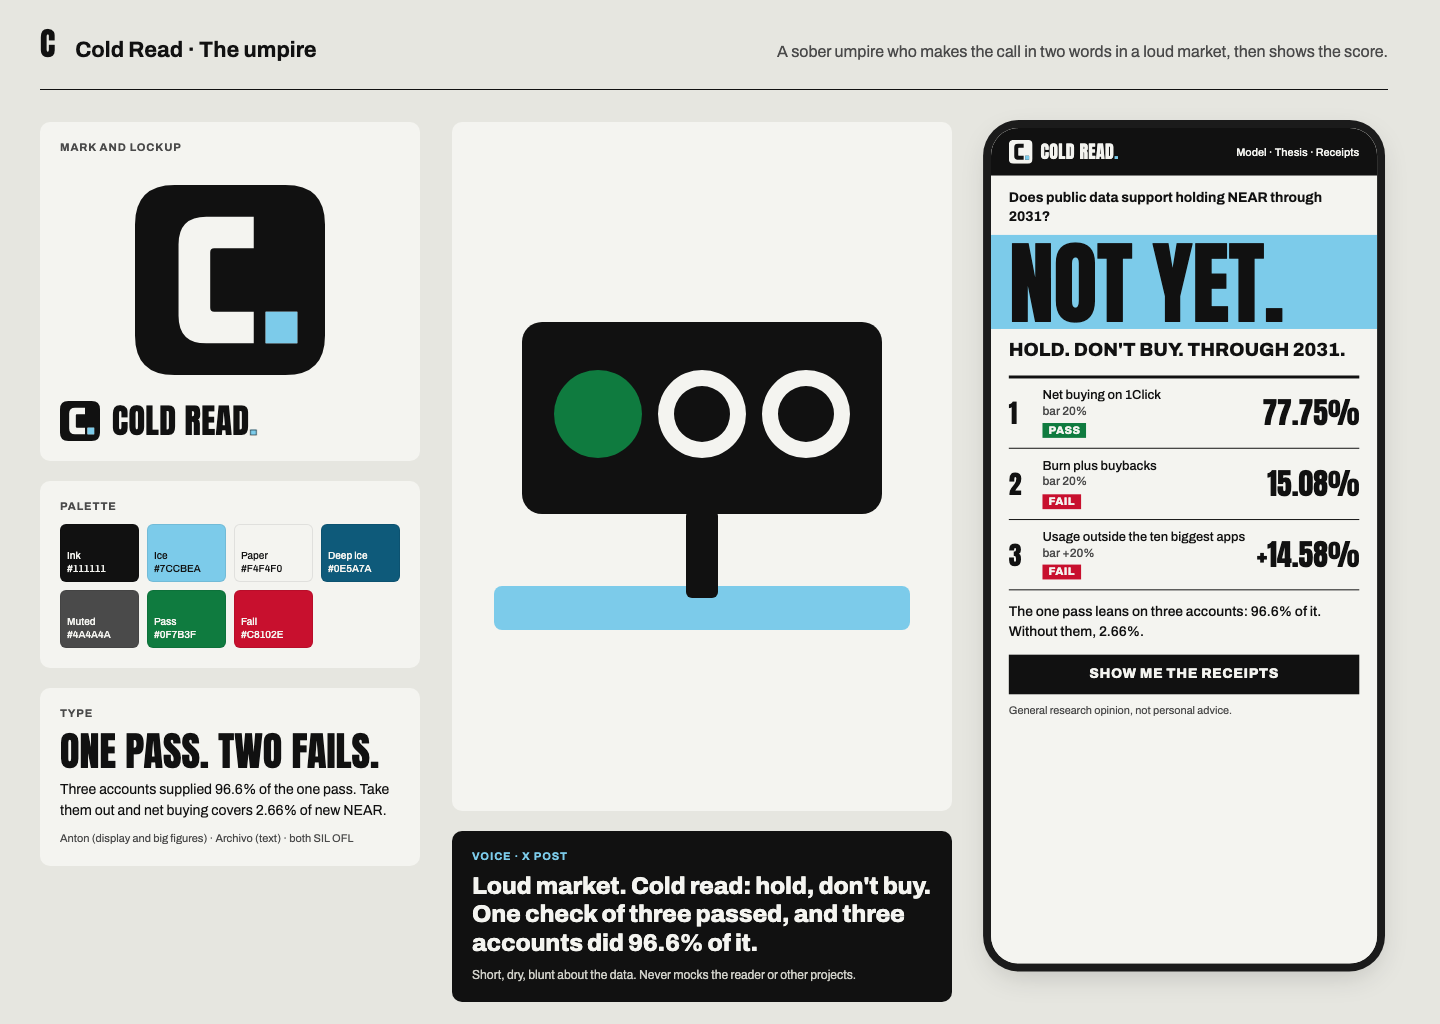
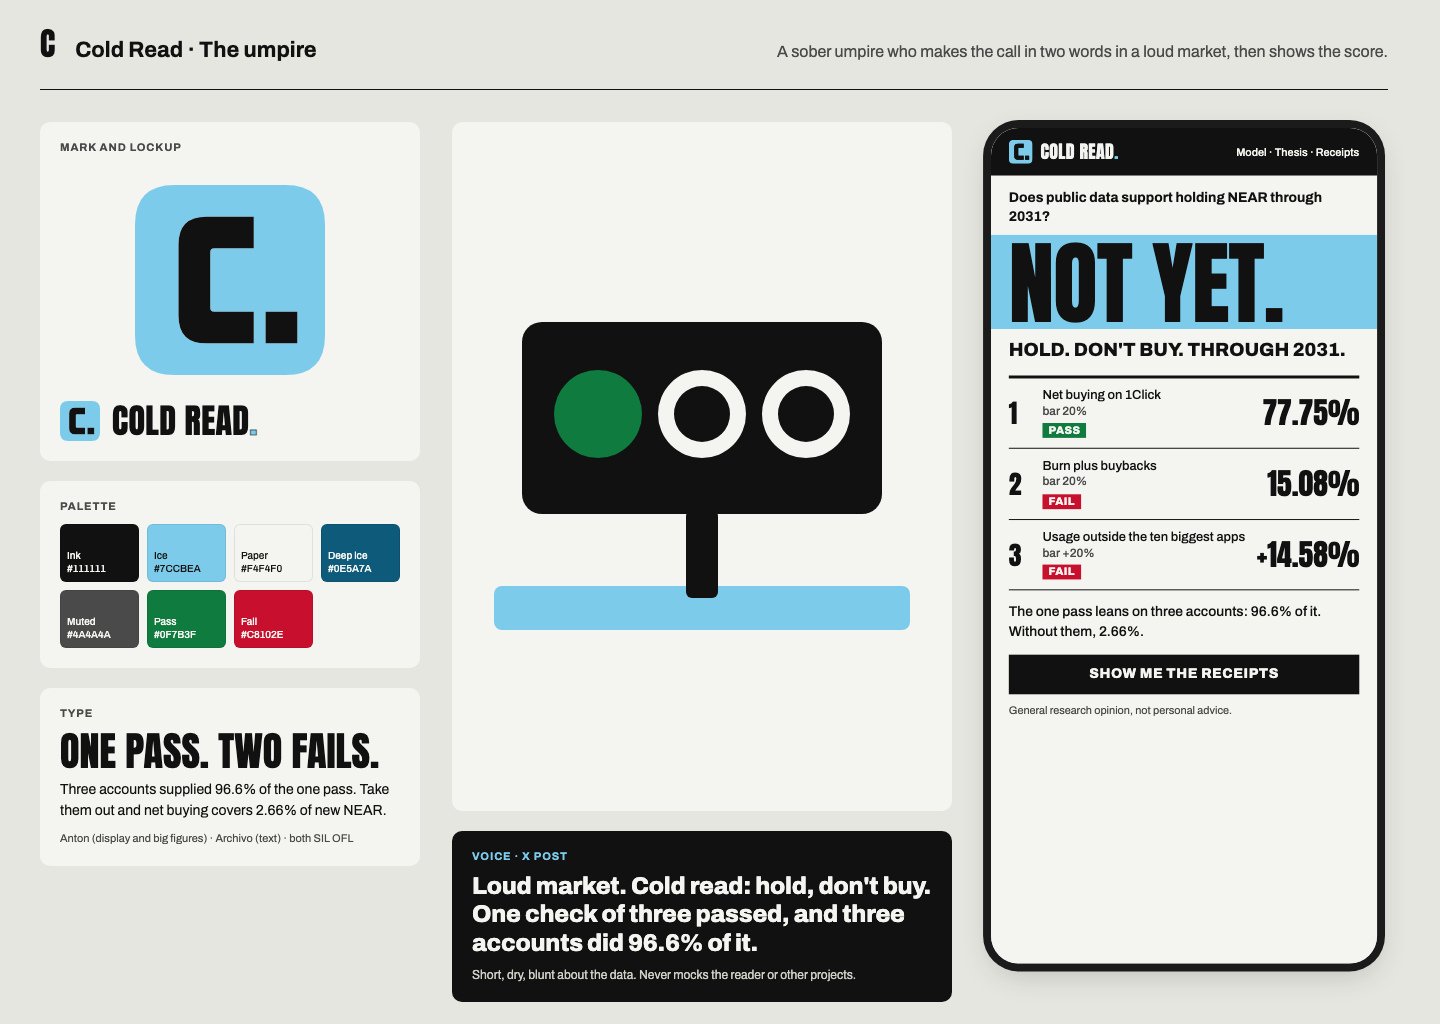
Apply the art director's fixes to the three brand directions
Mark A no longer reads as a circled T, mark C moves off black and white,
board B leads with the answer, and A's timing claim matches THESIS.md.

Changed region(s): [[0.0938, 0.1562, 0.25, 0.375], [0.0312, 0.375, 0.0938, 0.4375], [0.6875, 0.125, 0.7188, 0.1562]]

diff --git a/brand/directions/a-board.html b/brand/directions/a-board.html
@@ -53,7 +53,7 @@
     <div class="sw" style="background:#D9D1C1">Rule<br>#D9D1C1</div></div></div>
   <div class="panel type"><div class="label">Type</div>
     <div class="t1">Recorded before. Found after.</div>
-    <div class="t2">Three conditions and their 20% bars were written and time-stamped before any result was computed. One condition was met.</div>
+    <div class="t2">The three checks and their 20% bars were written before they were computed, and the rule was time-stamped. One check passed.</div>
     <div class="meta">Newsreader (display) · IBM Plex Sans (text and figures) · both SIL OFL</div></div>
 </div>
 <div class="col">
@@ -73,7 +73,7 @@
    <tr><td>1</td><td>Net buying on 1Click<br><span class="met ok">Met</span></td><td>20%</td><td class="n">77.75%</td></tr>
    <tr><td>2</td><td>Burn plus buybacks<br><span class="met no">Not met</span></td><td>20%</td><td class="n">15.08%</td></tr>
    <tr><td>3</td><td>Usage outside the ten biggest apps<br><span class="met no">Not met</span></td><td>+20%</td><td class="n">+14.58%</td></tr></table>
-  <div class="foot"><img src="a-mark.svg" alt="">Bars written and time-stamped before the results were computed. Proofs in Verify.</div>
+  <div class="foot"><img src="a-mark.svg" alt="">Checks and bars written before they were computed. Rule timeline and proofs in Verify.</div>
   <a class="btn">Read the record</a>
   <div class="rerun"><span>Check it yourself, offline:</span><code>npm run rebuild</code></div>
   <p class="note">General research opinion, not personal advice.</p>

diff --git a/brand/directions/c-board.html b/brand/directions/c-board.html
@@ -61,7 +61,7 @@
     <small>Short, dry, blunt about the data. Never mocks the reader or other projects.</small></div>
 </div>
 <div class="col phonewrap"><div class="phone"><div class="s">
-  <nav><img src="c-mark-reversed.svg" alt=""><b>Cold Read<i>.</i></b><span>Model · Thesis · Receipts</span></nav>
+  <nav><img src="c-mark.svg" alt=""><b>Cold Read<i>.</i></b><span>Model · Thesis · Receipts</span></nav>
   <p class="q">Does public data support holding NEAR through 2031?</p>
   <div class="big">Not yet.</div>
   <p class="r">Hold. Don't buy. Through 2031.</p>

diff --git a/brand/BRIEF.md b/brand/BRIEF.md
@@ -2,10 +2,10 @@
 
 ## Product
 
-A public research dashboard and one-page thesis that tests the long-term case for holding NEAR against public on-chain data. The tests and their pass bars were written and time-stamped before the results were computed. Every number reruns offline from committed data.
+A public research dashboard and one-page thesis that tests the long-term case for holding NEAR against public on-chain data. The three position checks and their pass bars were written before they were computed, and the rule was time-stamped. The README states the exact order of rules and results. Every number reruns offline from committed data.
 
 - **Audience:** crypto investors and fund analysts who distrust hype, and hackathon judges (human and AI) who check the work.
-- **Brand sentence:** "We set the bar before we looked, and every number reruns on your laptop."
+- **Brand sentence:** "We wrote the pass bars before we computed the checks, and every number reruns on your laptop."
 - **Personality:** exact, candid, calm. **Must not feel:** hyped, salesy, smug.
 - **Where it lives:** the dashboard (web, 375 to 1440 px), the README on GitHub, a favicon, a social card for the X demo post. No phone app.
 
@@ -49,7 +49,9 @@ This is not a trademark clearance. A proper trademark search is needed before an
 | Ex Ante (first idea for A) | Dropped. EXANTE is an existing investment broker and research publisher. |
 | Beforehand | No finance or research product found |
 | Showwork | No product found |
-| Cold Read | No crypto research product found |
+| Cold Read | No crypto research product found. "Cold reading" is also a psychic's trick |
+
+All 1,520 NEAR HACKATHON submissions listed on 2026-11-14 were checked: none uses Beforehand, Showwork or Cold Read.
 
 ## Directions
 
